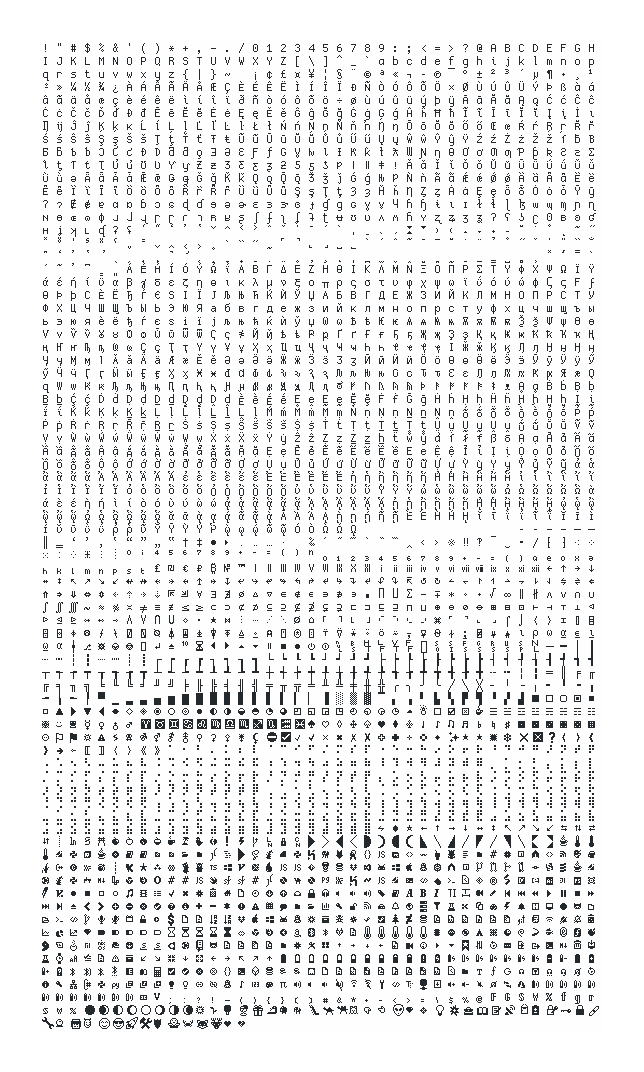
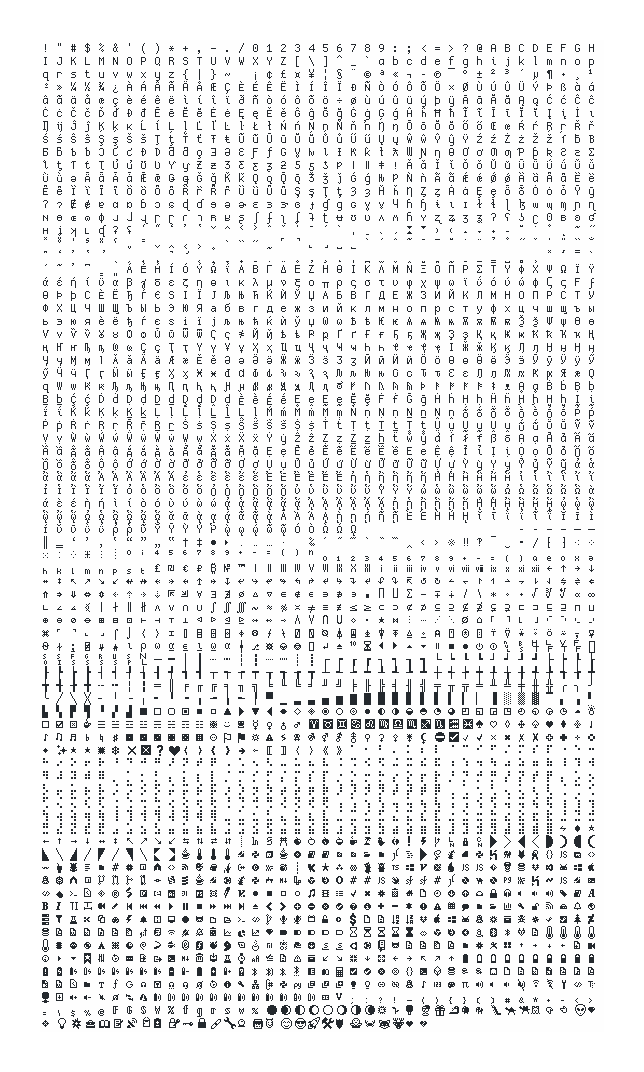
v.1.22.2 More math symbols
Closes #107

Changed region(s): [[0.0621, 0.5541, 0.9317, 0.9543], [0.4969, 0.5541, 0.6211, 0.6157], [0.2795, 0.5849, 0.3416, 0.6157]]

diff --git a/CHANGELOG.md b/CHANGELOG.md
@@ -5,6 +5,23 @@ All notable changes to this project will be documented in this file.
 The format is based on [Keep a Changelog], and this project adheres to
 [Semantic Versioning].
 
+## [1.22.2]
+
+### Added
+
+- ∔ (U+2214 DOT PLUS)
+- ∕ (U+2215 DIVISION SLASH)
+- ∖ (U+2216 SET MINUS)
+- ∛ (U+221B CUBE ROOT)
+- ∜ (U+221C FOURTH ROOT)
+- ∝ (U+221D PROPORTIONAL TO)
+- ∟ (U+221F RIGHT ANGLE)
+- ∠ (U+2220 ANGLE)
+- ∡ (U+2221 MEASURED ANGLE)
+- ∢ (U+2222 SPHERICAL ANGLE)
+- ∣ (U+2223 DIVIDES)
+- ∤ (U+2224 DOES NOT DIVIDE)
+
 ## [1.22.1]
 
 Caron fixes
@@ -2288,7 +2305,8 @@ Still broken on Windows.
 
 [keep a changelog]: https://keepachangelog.com/en/1.0.0/
 [semantic versioning]: https://semver.org/spec/v2.0.0.html
-[unreleased]: https://github.com/slavfox/Cozette/compare/v.1.22.1...HEAD
+[unreleased]: https://github.com/slavfox/Cozette/compare/v.1.22.2...HEAD
+[1.22.2]: https://github.com/slavfox/Cozette/compare/v.1.22.1...v.1.22.2
 [1.22.1]: https://github.com/slavfox/Cozette/compare/v.1.22.0...v.1.22.1
 [1.22.0]: https://github.com/slavfox/Cozette/compare/v.1.21.0-woff...v.1.22.0
 [1.21.0-woff]: https://github.com/slavfox/Cozette/compare/v.1.21.0...v.1.21.0-woff
